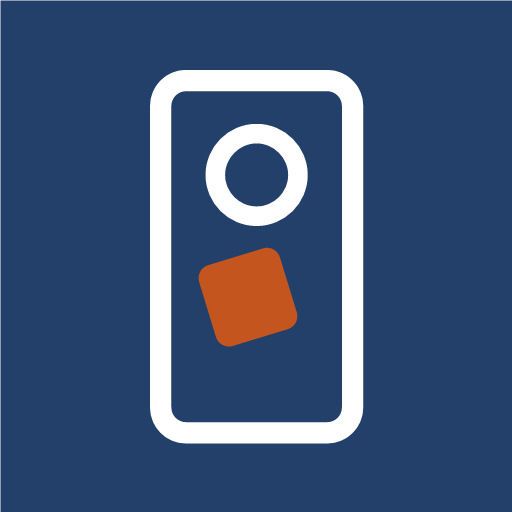
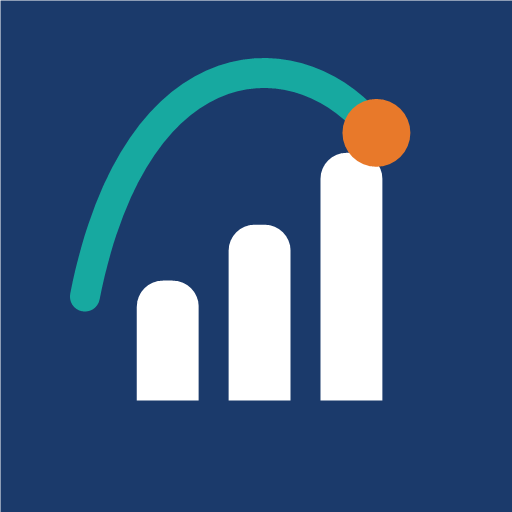
Renommer l application en ScoreToss et refaire l icône
Le nom promettait un jeu quand l écran d accueil en annonce quatre. La
marque rejoint celle du studio, du package et de la page de soutien.

Restent inchangés : l identifiant de package, la clé de stockage locale,
et le nom du fichier APK dont l adresse de téléchargement circule déjà.

L icône reprend la palette du logo — bleu nuit, turquoise, orange — mais
pas sa composition : quatre illustrations, trois lignes de texte et un
anneau ne survivent pas à 48 px, et le masque d Android rognerait
l anneau. Elle en garde l idée, le lancer qui retombe sur les barres du
score, en cinq formes qui restent lisibles à la plus petite densité.

Changed region(s): [[0.125, 0.0938, 0.8125, 0.875]]

diff --git a/index.html b/index.html
@@ -5,15 +5,15 @@
 <meta name="viewport" content="width=device-width, initial-scale=1, viewport-fit=cover">
 <meta name="theme-color" content="#0D1012" media="(prefers-color-scheme: dark)">
 <meta name="theme-color" content="#EFF2F2" media="(prefers-color-scheme: light)">
-<meta name="description" content="Compteur de points pour le jeu de cornhole, en simple ou en double.">
+<meta name="description" content="Compteur de points pour les jeux d'extérieur : cornhole en simple, en double et en tournoi.">
 <link rel="manifest" href="manifest.webmanifest">
 <link rel="icon" href="icon-192.png" sizes="192x192" type="image/png">
 <link rel="apple-touch-icon" href="apple-touch-icon.png">
 <meta name="mobile-web-app-capable" content="yes">
 <meta name="apple-mobile-web-app-capable" content="yes">
 <meta name="apple-mobile-web-app-status-bar-style" content="black-translucent">
-<meta name="apple-mobile-web-app-title" content="Cornscore">
-<title>Cornscore — Compteur de points</title>
+<meta name="apple-mobile-web-app-title" content="ScoreToss">
+<title>ScoreToss — Compteur de points</title>
 </head>
 <body>
 
@@ -774,7 +774,7 @@ a.hall-link{text-decoration:none;color:inherit}
   <section class="screen on" id="s-games">
     <header class="brand">
       <p class="eyebrow" data-i18n="games.eyebrow">Choisir un jeu</p>
-      <h1>Cornscore<span>.</span></h1>
+      <h1>ScoreToss<span>.</span></h1>
     </header>
 
     <div class="games">
@@ -1144,7 +1144,7 @@ fr:{
   "games.cornhole.sub":"Simple, double et tournois",
   "games.soon":"En chantier", "games.soon.sub":"Mölkky, pétanque, palet…",
   "games.change":"Changer de jeu",
-  "app.desc":"Compteur de points pour le jeu de cornhole. Parties en simple ou en double, tournois à élimination directe et palmarès entre joueurs.",
+  "app.desc":"Compteur de points pour les jeux d'extérieur. Cornhole en simple ou en double, tournois à élimination directe et palmarès entre joueurs.",
   "nav.home":"Accueil", "nav.close":"Fermer",
   "mode.single":"Simple", "mode.single.sub":"1 v 1",
   "mode.double":"Double", "mode.double.sub":"2 v 2",
@@ -1262,7 +1262,7 @@ fr:{
   "data.bad":"Fichier illisible",
   "data.confirm":"Remplacer les données actuelles ?",
   "share.result":"Partager le résultat",
-  "share.game":"{a} {sa} – {sb} {b} · {n} manches · Cornscore",
+  "share.game":"{a} {sa} – {sb} {b} · {n} manches · ScoreToss",
   "share.bracket":"Partager le tableau",
   "share.copied":"Copié dans le presse-papiers",
   "color.rouge":"Rouge","color.ambre":"Ambre","color.or":"Or","color.vert":"Vert",
@@ -1275,7 +1275,7 @@ en:{
   "games.cornhole.sub":"Singles, doubles and tournaments",
   "games.soon":"In the works", "games.soon.sub":"Mölkky, pétanque, palet…",
   "games.change":"Change game",
-  "app.desc":"A score keeper for cornhole. Singles and doubles games, single-elimination tournaments, and a record of who beats whom.",
+  "app.desc":"A score keeper for outdoor games. Cornhole singles and doubles, single-elimination tournaments, and a record of who beats whom.",
   "nav.home":"Home", "nav.close":"Close",
   "mode.single":"Singles", "mode.single.sub":"1 v 1",
   "mode.double":"Doubles", "mode.double.sub":"2 v 2",
@@ -1393,7 +1393,7 @@ en:{
   "data.bad":"Unreadable file",
   "data.confirm":"Replace the current data?",
   "share.result":"Share the result",
-  "share.game":"{a} {sa} – {sb} {b} · {n} frames · Cornscore",
+  "share.game":"{a} {sa} – {sb} {b} · {n} frames · ScoreToss",
   "share.bracket":"Share the bracket",
   "share.copied":"Copied to the clipboard",
   "color.rouge":"Red","color.ambre":"Amber","color.or":"Gold","color.vert":"Green",
@@ -1406,7 +1406,7 @@ es:{
   "games.cornhole.sub":"Individual, parejas y torneos",
   "games.soon":"En preparación", "games.soon.sub":"Mölkky, petanca, palet…",
   "games.change":"Cambiar de juego",
-  "app.desc":"Marcador para el juego de cornhole. Partidas individuales o por parejas, torneos de eliminación directa e historial de enfrentamientos.",
+  "app.desc":"Marcador para juegos de exterior. Cornhole individual o por parejas, torneos de eliminación directa e historial de enfrentamientos.",
   "nav.home":"Inicio", "nav.close":"Cerrar",
   "mode.single":"Individual", "mode.single.sub":"1 v 1",
   "mode.double":"Parejas", "mode.double.sub":"2 v 2",
@@ -1524,7 +1524,7 @@ es:{
   "data.bad":"Archivo ilegible",
   "data.confirm":"¿Reemplazar los datos actuales?",
   "share.result":"Compartir el resultado",
-  "share.game":"{a} {sa} – {sb} {b} · {n} rondas · Cornscore",
+  "share.game":"{a} {sa} – {sb} {b} · {n} rondas · ScoreToss",
   "share.bracket":"Compartir el cuadro",
   "share.copied":"Copiado al portapapeles",
   "color.rouge":"Rojo","color.ambre":"Ámbar","color.or":"Oro","color.vert":"Verde",
@@ -1560,7 +1560,7 @@ function applyStaticText(){
     n[i].setAttribute("aria-label",s);
     n[i].title=s;
   }
-  document.title = "Cornscore — "+t("app.tagline");
+  document.title = "ScoreToss — "+t("app.tagline");
 }
 
 /* l vaut "fr", "en", ou null pour revenir au suivi du téléphone. */
@@ -2676,7 +2676,7 @@ function fillAbout(){
   body.innerHTML="";
 
   var id=el("div","about-id");
-  id.appendChild(el("h4",null,"Cornscore"));
+  id.appendChild(el("h4",null,"ScoreToss"));
   id.appendChild(el("p",null,t("app.desc")));
   id.appendChild(el("p","about-ver",tf("about.version",{v:APP_VERSION})));
   body.appendChild(id);

diff --git a/privacy.html b/privacy.html
@@ -5,7 +5,7 @@
 <meta name="viewport" content="width=device-width, initial-scale=1">
 <meta name="theme-color" content="#0D1012" media="(prefers-color-scheme: dark)">
 <meta name="theme-color" content="#EFF2F2" media="(prefers-color-scheme: light)">
-<title>Cornscore — Politique de confidentialité</title>
+<title>ScoreToss — Politique de confidentialité</title>
 <style>
 :root{
   --bg:#0D1012; --panel:#14181B; --line:rgba(255,255,255,.09);
@@ -46,12 +46,12 @@ footer{margin-top:44px;font-family:var(--fm);font-size:10.5px;letter-spacing:.1e
 <body>
 <main>
 
-  <p class="eyebrow">Cornscore</p>
+  <p class="eyebrow">ScoreToss</p>
   <h1>Politique de confidentialité</h1>
   <p>Dernière mise à jour : 29 juillet 2026.</p>
 
   <h2>En résumé</h2>
-  <p><strong>Cornscore ne collecte aucune donnée personnelle.</strong> L'application n'a pas de compte,
+  <p><strong>ScoreToss ne collecte aucune donnée personnelle.</strong> L'application n'a pas de compte,
   pas de serveur, pas de publicité, pas de traceur, et ne demande aucune autorisation permettant
   d'accéder à vos contacts, à votre position ou à vos fichiers.</p>
 
@@ -80,12 +80,12 @@ footer{margin-top:44px;font-family:var(--fm);font-size:10.5px;letter-spacing:.1e
 
   <div class="sep"></div>
 
-  <p class="eyebrow" style="margin-top:52px">Cornscore</p>
+  <p class="eyebrow" style="margin-top:52px">ScoreToss</p>
   <h1>Privacy policy</h1>
   <p>Last updated: 29 July 2026.</p>
 
   <h2>In short</h2>
-  <p><strong>Cornscore collects no personal data.</strong> There is no account, no server, no
+  <p><strong>ScoreToss collects no personal data.</strong> There is no account, no server, no
   advertising and no tracking, and the app requests no permission that would give it access to your
   contacts, location or files.</p>
 
@@ -114,12 +114,12 @@ footer{margin-top:44px;font-family:var(--fm);font-size:10.5px;letter-spacing:.1e
 
   <div class="sep"></div>
 
-  <p class="eyebrow" style="margin-top:52px">Cornscore</p>
+  <p class="eyebrow" style="margin-top:52px">ScoreToss</p>
   <h1>Política de privacidad</h1>
   <p>Última actualización: 31 de julio de 2026.</p>
 
   <h2>En resumen</h2>
-  <p><strong>Cornscore no recoge ningún dato personal.</strong> No hay cuenta, ni servidor, ni
+  <p><strong>ScoreToss no recoge ningún dato personal.</strong> No hay cuenta, ni servidor, ni
   publicidad, ni rastreadores, y la aplicación no solicita ningún permiso que le dé acceso a tus
   contactos, tu ubicación o tus archivos.</p>
 
@@ -146,7 +146,7 @@ footer{margin-top:44px;font-family:var(--fm);font-size:10.5px;letter-spacing:.1e
   <h2>Contacto</h2>
   <p>Cualquier duda: <a href="https://github.com/LilKuririn/Cornscore/issues">abre una incidencia en GitHub</a>.</p>
 
-  <footer>Cornscore — application sans collecte de données</footer>
+  <footer>ScoreToss — application sans collecte de données</footer>
 
 </main>
 </body>

diff --git a/store/fiche-play.md b/store/fiche-play.md
@@ -9,7 +9,7 @@ Les limites de caractères sont celles de la console. Les compteurs indiqués so
 **App name** *(30 max — 26 utilisés)*
 
 ```
-Cornscore: Cornhole Scores
+ScoreToss: Cornhole Scores
 ```
 
 **Short description** *(80 max — 77 utilisés)*
@@ -27,7 +27,7 @@ Two big numbers, each in its team's colour, and a row of ticks showing how close
 target. Nothing else competes for attention while you play.
 
 SCORING A FRAME
-Tap the bags — in the hole for 3, on the board for 1 — and Cornscore works out the cancellation
+Tap the bags — in the hole for 3, on the board for 1 — and ScoreToss works out the cancellation
 for you. It shows what the frame is worth before you confirm it, so nobody has to do arithmetic
 between throws. The team that scored throws first in the next frame, and the app keeps track.
 
@@ -50,12 +50,12 @@ SMALL THINGS THAT HELP
 · The screen stays awake while you play
 · A short buzz confirms each tap
 · Light and dark, following your phone
-· English and French
+· English, French and Spanish
 · Export a backup before switching phones
 · Share the final score or the bracket
 
 NO ADS, NO ACCOUNT, NO INTERNET
-Cornscore collects nothing. There is no sign-up, no server and no tracking. Your games, tournaments
+ScoreToss collects nothing. There is no sign-up, no server and no tracking. Your games, tournaments
 and records are stored on your phone and never leave it. The app works entirely offline — in a
 garden, on a campsite, wherever the boards are.
 
@@ -74,7 +74,7 @@ Free, and free of everything else.
 **Nom de l'application** *(30 max — 29 utilisés)*
 
 ```
-Cornscore : score au cornhole
+ScoreToss : score au cornhole
 ```
 
 **Description courte** *(80 max — 79 utilisés)*
@@ -92,7 +92,7 @@ Deux grands chiffres, chacun dans la couleur de son équipe, et une réglette de
 distance au score visé. Rien d'autre ne vient réclamer l'attention pendant la partie.
 
 COMPTER UNE MANCHE
-On touche les sacs — 3 points dans le trou, 1 sur la planche — et Cornscore calcule l'annulation.
+On touche les sacs — 3 points dans le trou, 1 sur la planche — et ScoreToss calcule l'annulation.
 Le résultat de la manche s'affiche avant validation, personne n'a de soustraction à faire entre
 deux lancers. L'équipe qui a marqué lance en premier à la manche suivante, l'application suit.
 
@@ -117,12 +117,12 @@ LES PETITS RIENS
 · L'écran reste allumé pendant la partie
 · Une vibration brève confirme chaque appui
 · Thème clair et sombre, selon le téléphone
-· Français et anglais
+· Français, anglais et espagnol
 · Sauvegarde exportable avant de changer de téléphone
 · Partage du score final ou du tableau
 
 SANS PUBLICITÉ, SANS COMPTE, SANS INTERNET
-Cornscore ne collecte rien. Ni inscription, ni serveur, ni traceur. Vos parties, vos tournois et
+ScoreToss ne collecte rien. Ni inscription, ni serveur, ni traceur. Vos parties, vos tournois et
 votre palmarès restent sur votre téléphone et n'en sortent jamais. L'application fonctionne
 intégralement hors ligne — dans un jardin, en camping, partout où sont les planches.
 
@@ -170,6 +170,6 @@ Si la console refuse le format, envoie-les moi : je les recadre en 9:16 sur le f
 l'application.
 
 **Note sur le public cible.** Déclarer une tranche incluant les moins de 13 ans fait entrer
-l'application dans le programme « Familles », avec ses exigences supplémentaires. Comme Cornscore
+l'application dans le programme « Familles », avec ses exigences supplémentaires. Comme ScoreToss
 ne collecte rien et n'affiche aucune publicité, elle y satisferait sans mal, mais cela ajoute des
 contrôles au moment de la revue. À 13 ans et plus, le parcours est plus court.

diff --git a/README.md b/README.md
@@ -1,7 +1,7 @@
-# Cornscore
+# ScoreToss
 
-Compteur de points pour le jeu de **cornhole**. Une page, aucune dépendance, aucun serveur :
-on ouvre `index.html` et on joue.
+Compteur de points pour les **jeux d'extérieur**, à commencer par le cornhole. Une page, aucune
+dépendance, aucun serveur : on ouvre `index.html` et on joue.
 
 ## Utilisation
 
@@ -103,7 +103,7 @@ L'identifiant de l'application est `com.scoretosslabs.cornscore`. Il doit corres
 package saisi dans la console Play, et **ne peut plus changer** une fois l'application créée.
 L'APK d'installation directe porte le suffixe `.direct` : signé par une autre clé, il ne pourrait
 pas s'installer par-dessus la version du magasin, et coexiste donc avec elle sous le nom
-« Cornscore direct ».
+« ScoreToss direct ».
 
 La politique de confidentialité, exigée par la console, est en ligne :
 <https://lilkuririn.github.io/Cornscore/privacy.html>
@@ -122,8 +122,9 @@ La politique de confidentialité, exigée par la console, est en ligne :
   partie.
 - **Palmarès** — les parties terminées sont archivées : confrontations directes, classement par
   victoires, dernières rencontres.
-- **Français et anglais** — la langue suit celle du téléphone au premier lancement, et se change
-  depuis la fiche *À propos*.
+- **Français, anglais et espagnol** — la langue suit celle du téléphone au premier lancement, et
+  se change depuis la fiche *À propos*.
+- **Choix du jeu** — l'accueil liste les jeux ; le cornhole est le premier, d'autres suivront.
 - **Sauvegarde et partage** — export et restauration des données en JSON, partage du score final
   ou de l'arbre du tournoi en texte.
 - **Fin de partie** — vainqueur, score final, sacs dans le trou, meilleure manche, revanche.

diff --git a/store/notes-de-version.md b/store/notes-de-version.md
@@ -10,7 +10,7 @@ uniquement entre les deux.
 ### en-US *(langue par défaut, obligatoire)*
 
 ```
-First internal build of Cornscore.
+First internal build of ScoreToss.
 
 Keep score at cornhole: singles or doubles, four bags per team per frame, with the cancellation
 worked out for you. Includes single-elimination tournaments up to 16 teams and a record of who
@@ -23,7 +23,7 @@ final, switching language, and that everything survives closing the app.
 ### fr-FR *(seulement si tu ajoutes la langue à la fiche)*
 
 ```
-Première version interne de Cornscore.
+Première version interne de ScoreToss.
 
 Compteur de points pour le cornhole : simple ou double, quatre sacs par équipe et par manche,
 annulation calculée pour vous. Comprend les tournois à élimination directe jusqu'à 16 équipes et
